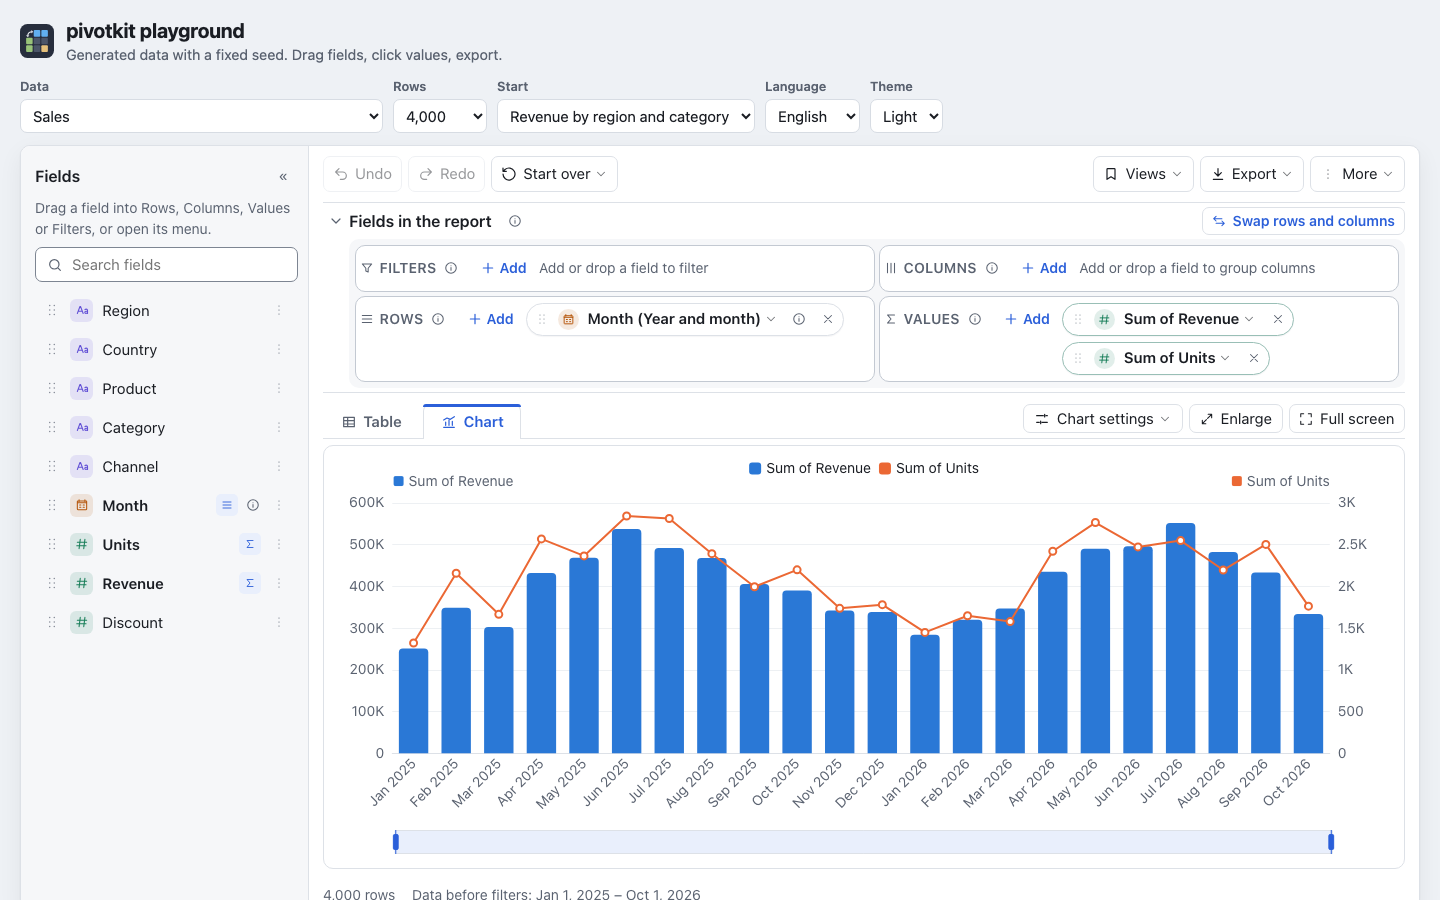
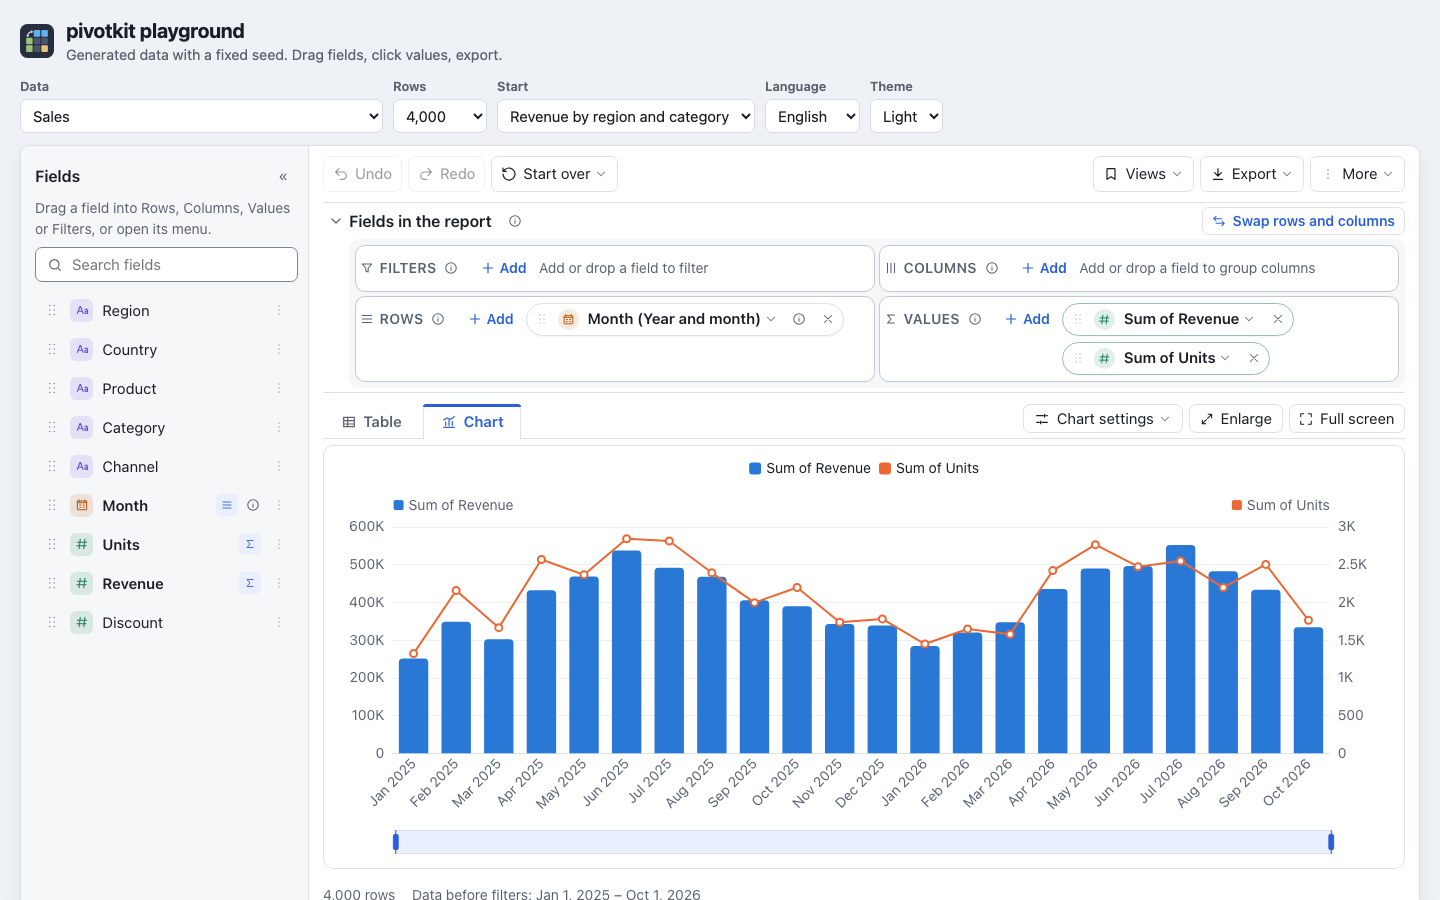
fix(charts): a combo's axis names below the legend, each within half the chart

diff --git a/packages/pivotkit-core/test/chart-combo-treemap.test.js b/packages/pivotkit-core/test/chart-combo-treemap.test.js
@@ -54,8 +54,10 @@ test("combo: the first value as bars on the left axis, the second as a line on i
     assert.equal(option.yAxis[1].nameTextStyle.rich.s.color, "#eb6834");
     // the right axis draws no grid lines of its own: one grid, the left axis's
     assert.equal(option.yAxis[1].splitLine.show, false);
-    // a legend names both series
+    // a legend names both series; the axes' names get a line of room below it
     assert.ok(option.legend);
+    const bars = toEChartsOption(pivot({ type: "bar" }), { theme: THEME });
+    assert.equal(option.grid.top - bars.grid.top, 14 + 10);
 });
 
 test("combo with a field on Columns: every series of the first value as bars, the others as lines", () => {
@@ -143,4 +145,12 @@ test("decorateOption: treemap labels take --pk-text or --pk-surface, whichever r
     // white label gets a dark outline it reads against
     assert.equal(out.series[0].data[0].label.textBorderColor, undefined);
     assert.deepEqual([out.series[0].data[1].label.textBorderColor, out.series[0].data[1].label.textBorderWidth], ["#1a1d23", 2]);
+});
+
+test("decorateOption: a combo's axis names each fit in half the chart", () => {
+    const out = decorateOption(toEChartsOption(pivot({ type: "combo" }), { theme: THEME }), { getPropertyValue: () => "" }, { width: 358, height: 300 });
+    for (const axis of out.yAxis) {
+        assert.ok(axis.nameTextStyle.width <= 155, String(axis.nameTextStyle.width));
+        assert.equal(axis.nameTextStyle.overflow, "truncate");
+    }
 });

diff --git a/packages/pivotkit-core/src/chart.js b/packages/pivotkit-core/src/chart.js
@@ -368,7 +368,8 @@ export function toEChartsOption(result, options) {
         tooltip: { trigger: "axis", valueFormatter, shareFormatter },
         ...(type === "bar" ? { axisPointer: { triggerEmphasis: false } } : {}),
         // room for the title and the legend; ECharts keeps its own defaults for the label margins
-        grid: { top: GRID_TOP + titleRoom + room.top + marks.room, ...(room.bottom ? { bottom: room.bottom + 8 } : {}), ...(room.right ? { right: room.right + 8 } : {}) },
+        // a combo's axes are named above the plot: a line of room for their names below the legend
+        grid: { top: GRID_TOP + titleRoom + room.top + marks.room + (combo ? (theme.textSize ?? DEFAULT_THEME.textSize) + 10 : 0), ...(room.bottom ? { bottom: room.bottom + 8 } : {}), ...(room.right ? { right: room.right + 8 } : {}) },
         xAxis: chart.horizontal && !combo ? valueAxis : groups ? [categoryAxis, groups.axis] : categoryAxis,
         yAxis: combo ? comboAxes(s, valueAxis, { theme, locale, colorOf, names: valueNames(result.view.values, { ...DEFAULT_LABELS, ...(options.labels || {}) }), firstValue }) : chart.horizontal ? (groups ? [{ ...categoryAxis, inverse: true }, { ...groups.axis, inverse: true }] : { ...categoryAxis, inverse: true }) : valueAxis,
         series: s.series.map((x, i) => {

diff --git a/packages/pivotkit-core/src/chart-style.js b/packages/pivotkit-core/src/chart-style.js
@@ -286,7 +286,10 @@ export function decorateOption(option, style, { height = 480, width = 800, categ
     const title = option.title ? { title: { ...option.title, textStyle: { ...option.title.textStyle, width: Math.max(40, width - 32), overflow: "truncate" } } } : {};
     // bars, lines and areas: the category axis writes every label that fits (categoryLabelLayout), the
     // group labels sit below (or left of) those labels
-    let axes = { xAxis: reach.xAxis ?? xAxis, yAxis: reach.yAxis ?? yAxis };
+    // two value axes (a combo) named above the plot: each name within half the chart, cut with "…"
+    const named = Array.isArray(yAxis) && yAxis.length === 2 && yAxis.every((a) => a?.type === "value" && a.name);
+    const halves = named ? yAxis.map((/** @type {any} */ a) => ({ ...a, nameTextStyle: { ...a.nameTextStyle, width: Math.max(40, Math.floor((width - 48) / 2) - 8), overflow: "truncate" } })) : null;
+    let axes = { xAxis: reach.xAxis ?? xAxis, yAxis: halves ?? reach.yAxis ?? yAxis };
     let axisEvery = 1;
     /** @type {object | null} the zoom slider (chart-zoom.js) */
     let slider = null;
